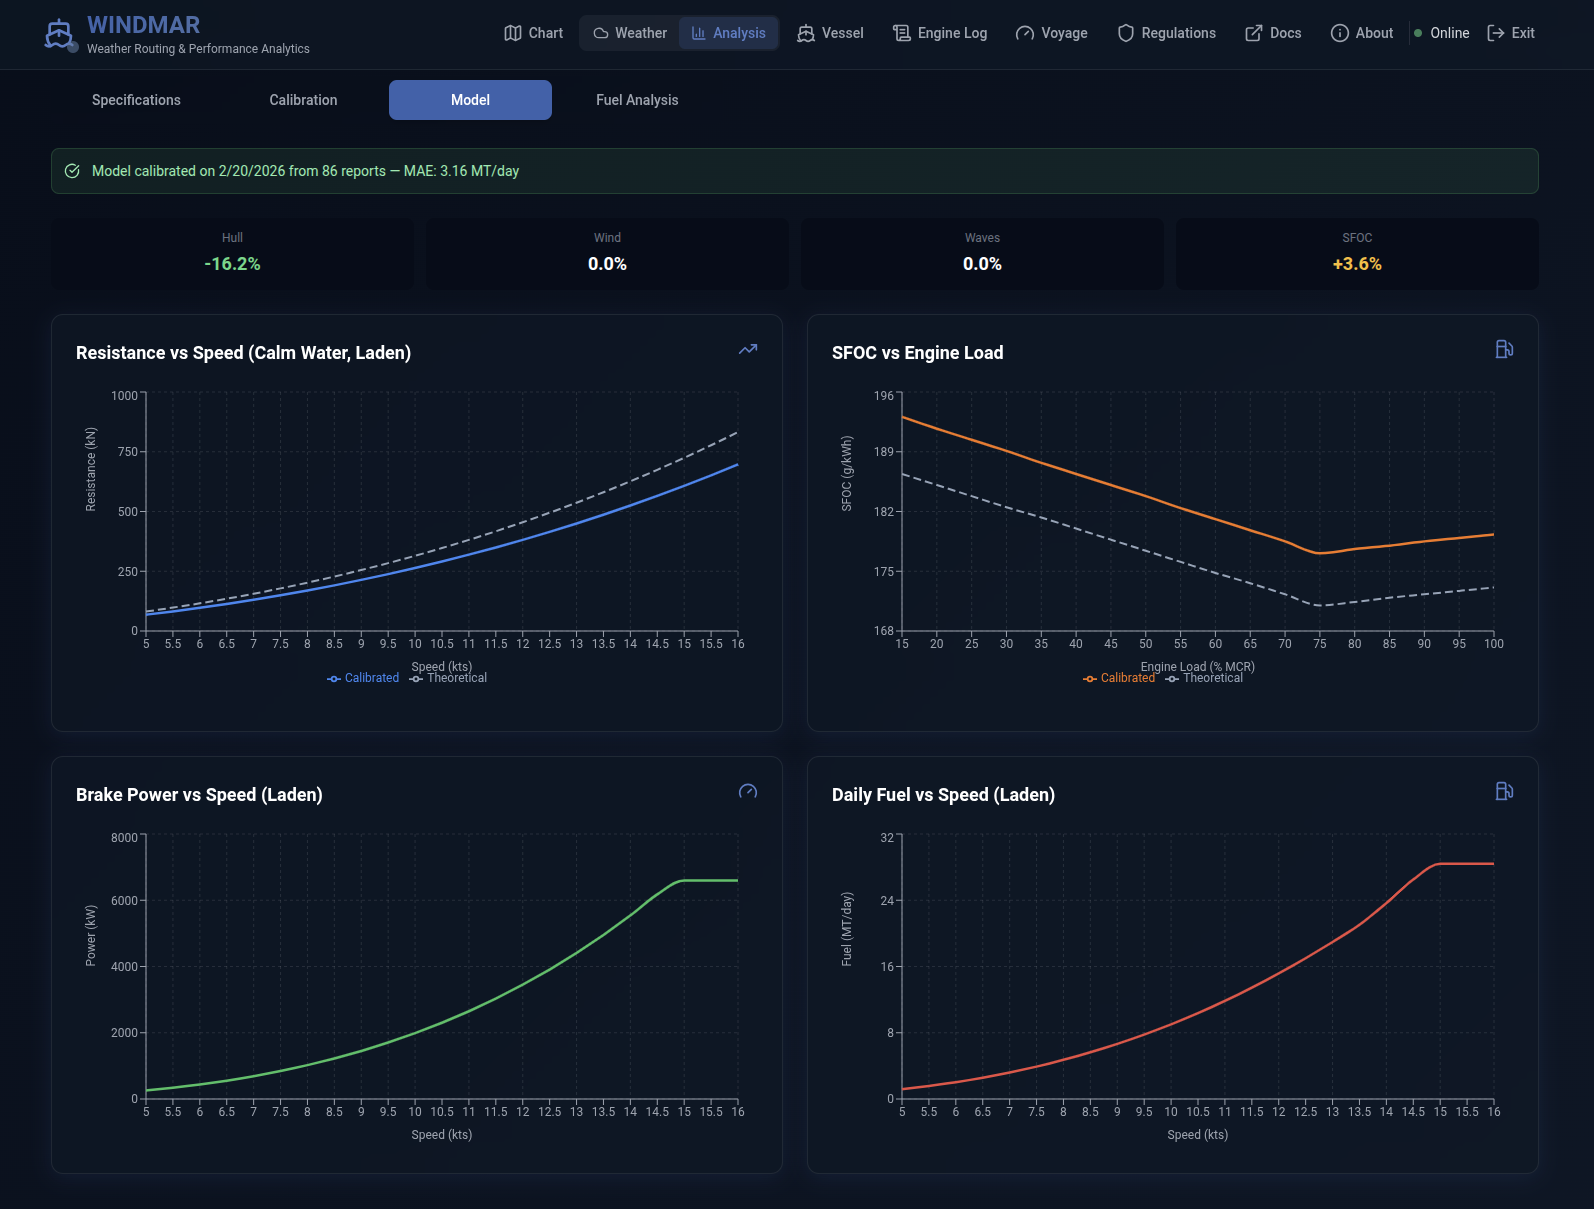
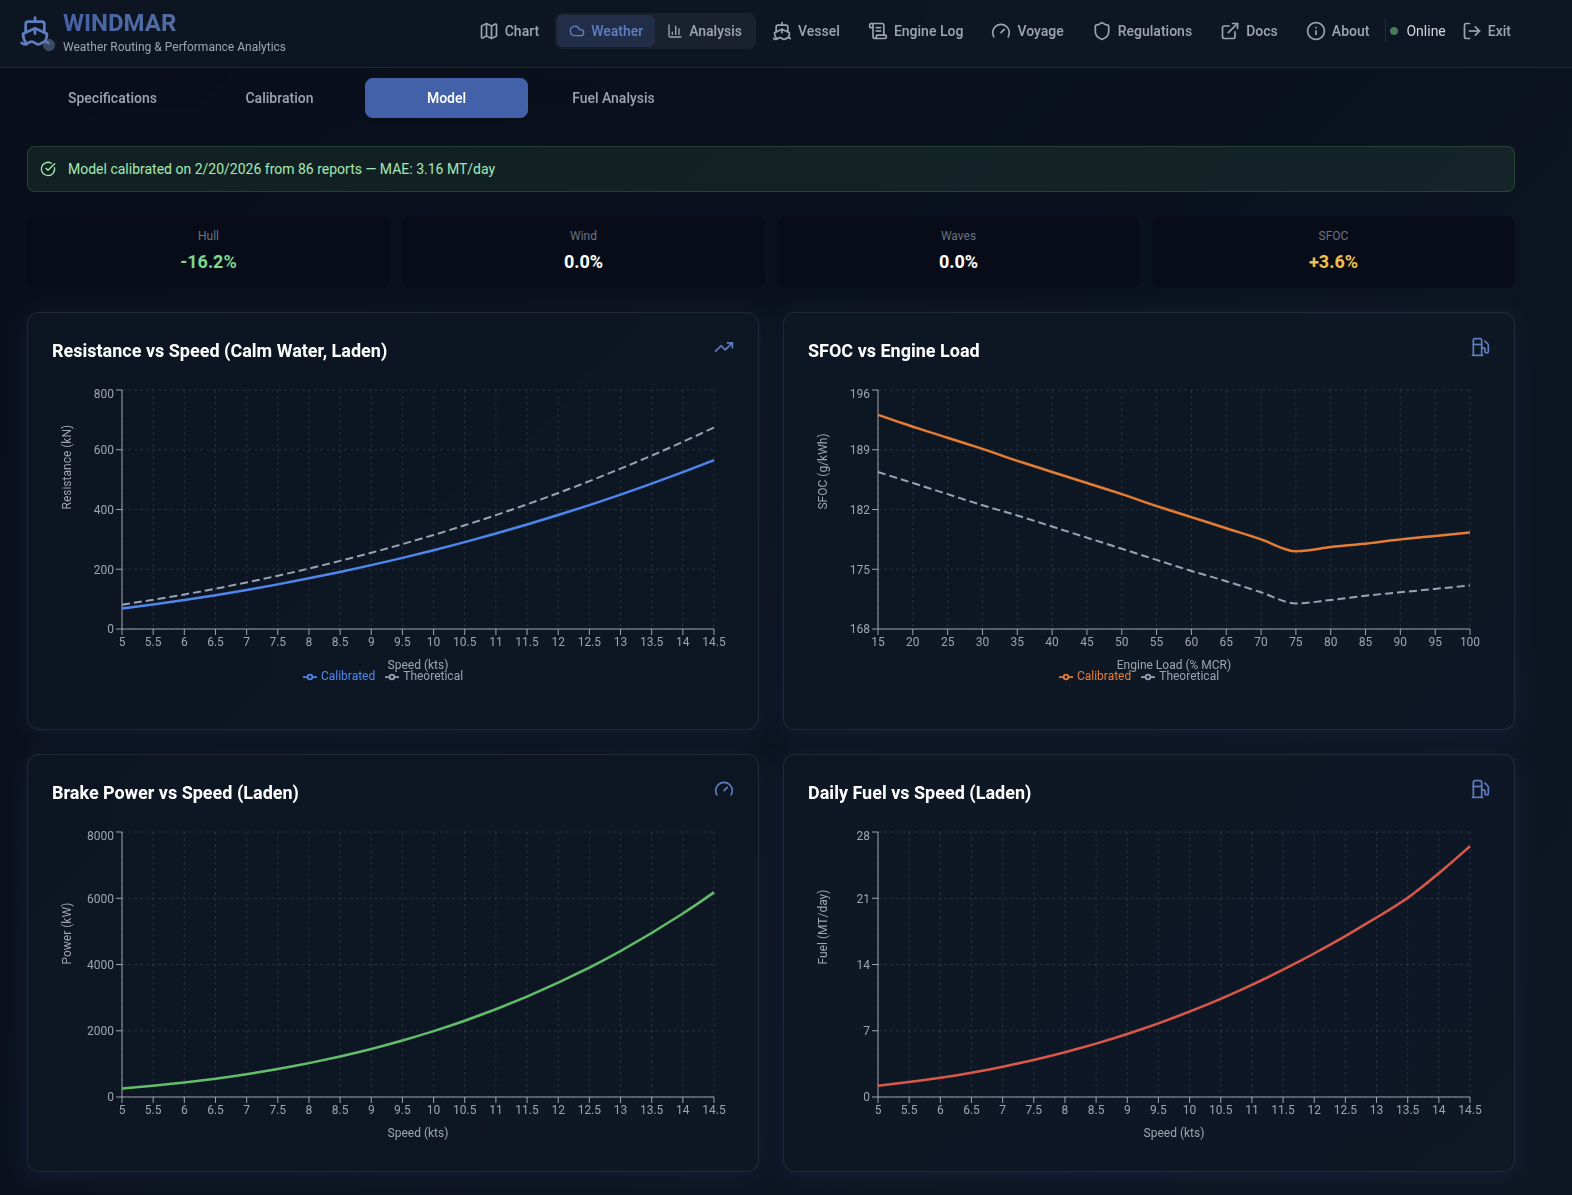
Truncate model curves at 14.5 kts and update screenshot
Speed range reduced from 5–16 to 5–14.5 kts to avoid flat fuel
curve at MCR limit. Screenshot updated to reflect the corrected plot.

diff --git a/api/routers/vessel.py b/api/routers/vessel.py
@@ -593,8 +593,8 @@ async def get_vessel_model_curves():
     model = _vs.model
     cal = _vs.calibration
 
-    # Speed range: 5-16 kts in 0.5 kts steps
-    speeds = list(np.arange(5.0, 16.5, 0.5))
+    # Speed range: 5-14.5 kts in 0.5 kts steps
+    speeds = list(np.arange(5.0, 15.0, 0.5))
 
     resistance_theoretical = []
     resistance_calibrated = []
@@ -644,20 +644,13 @@ async def get_vessel_model_curves():
         sfoc_at_loads_theoretical.append(round(theo, 1))
         sfoc_at_loads.append(round(theo * model.calibration_factors.get("sfoc_factor", 1.0), 1))
 
-    # Find the MCR cutoff index: first speed where power >= 99.5% MCR
-    mcr_cut = len(speeds)
-    for i, pw in enumerate(power_kw_list):
-        if pw >= specs.mcr_kw * 0.995:
-            mcr_cut = i + 1  # include this point, but not beyond
-            break
-
     return {
-        "speed_range_kts": [round(s, 1) for s in speeds[:mcr_cut]],
-        "resistance_theoretical_kn": resistance_theoretical[:mcr_cut],
-        "resistance_calibrated_kn": resistance_calibrated[:mcr_cut],
-        "power_kw": power_kw_list[:mcr_cut],
-        "sfoc_gkwh": sfoc_gkwh_list[:mcr_cut],
-        "fuel_mt_per_day": fuel_mt_per_day_list[:mcr_cut],
+        "speed_range_kts": [round(s, 1) for s in speeds],
+        "resistance_theoretical_kn": resistance_theoretical,
+        "resistance_calibrated_kn": resistance_calibrated,
+        "power_kw": power_kw_list,
+        "sfoc_gkwh": sfoc_gkwh_list,
+        "fuel_mt_per_day": fuel_mt_per_day_list,
         "sfoc_curve": {
             "load_pct": sfoc_loads,
             "sfoc_theoretical_gkwh": sfoc_at_loads_theoretical,
